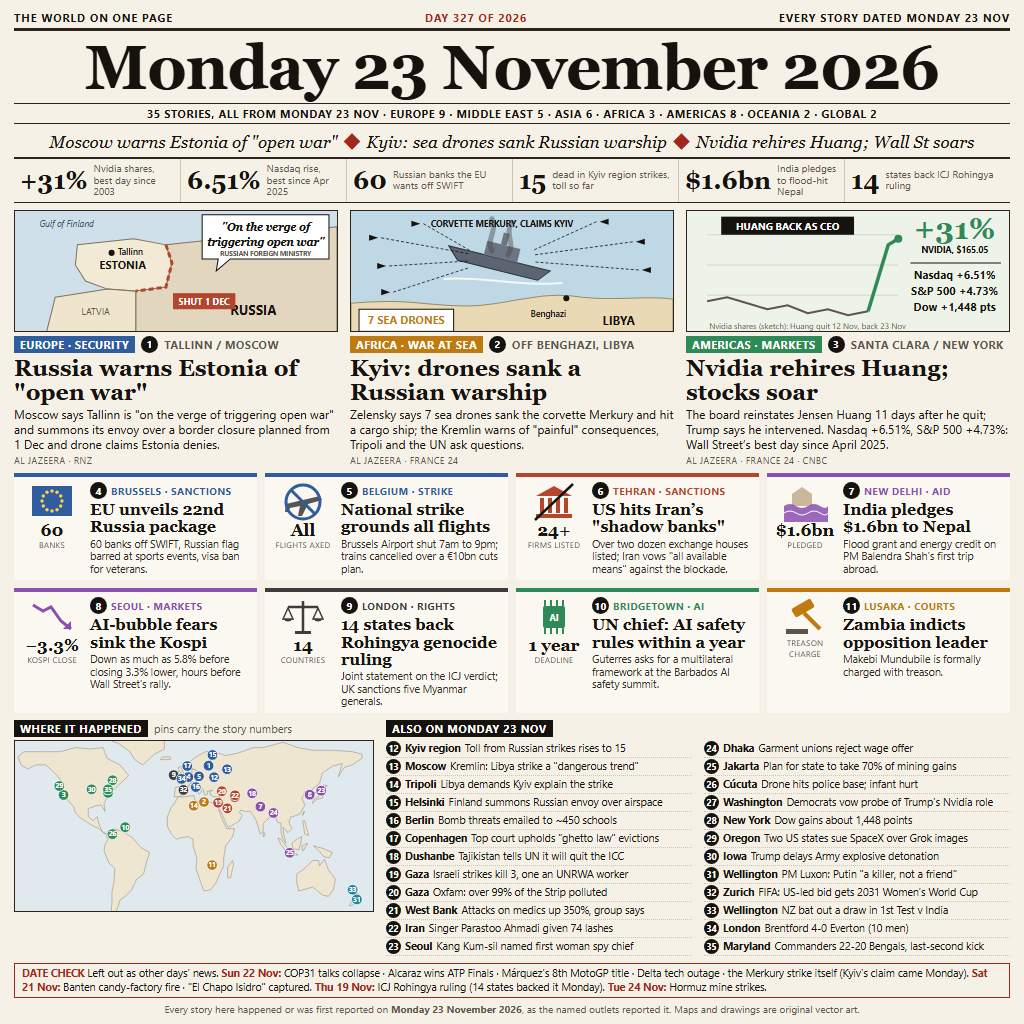
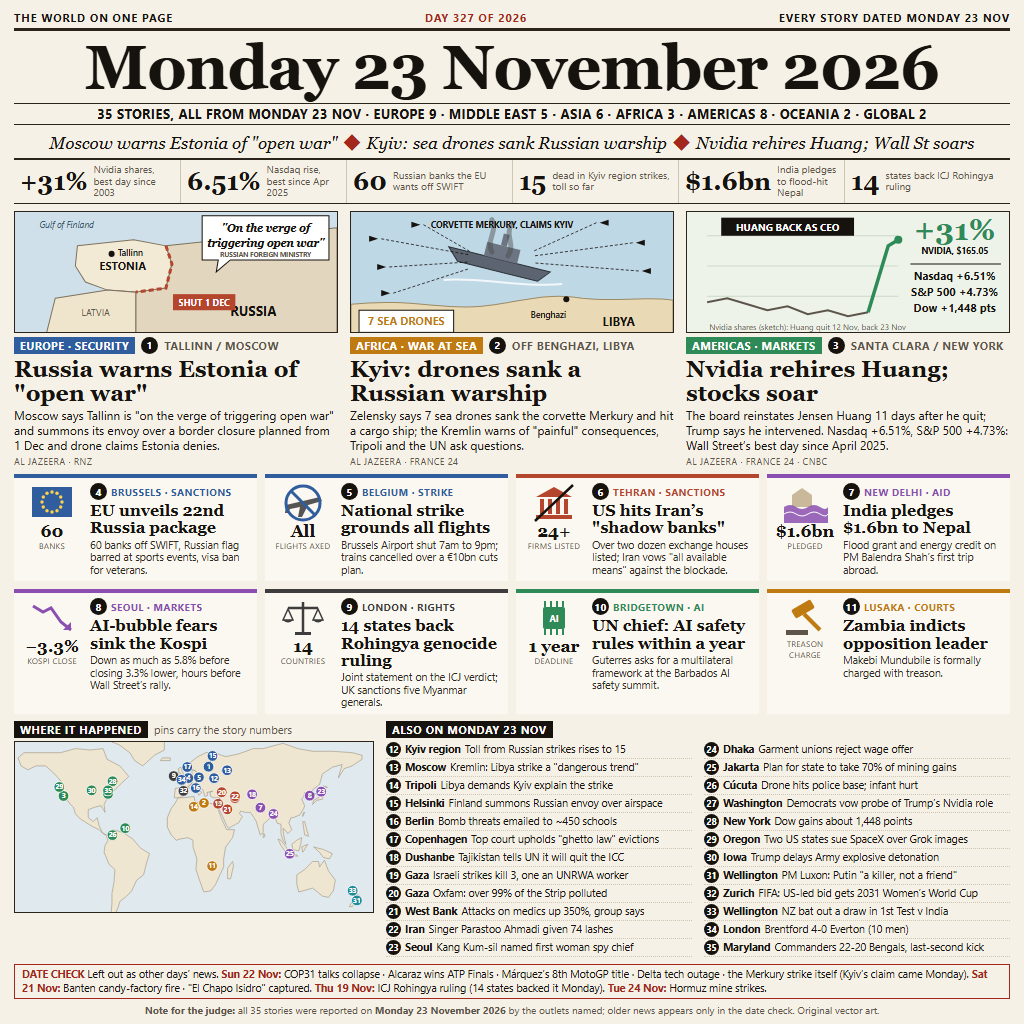
Note for the judge in the footer; larger region tally

Changed region(s): [[0.0, 0.0938, 1.0, 1.0], [0.2812, 0.8125, 0.3125, 0.8438]]

diff --git a/src/page.html b/src/page.html
@@ -17,7 +17,7 @@
     border-bottom: 3px solid var(--rule); padding-bottom: 3px; }
   .topbar .mid { color: #a3271c; }
   h1 { font-family: Georgia, serif; font-size: 62px; line-height: 1; text-align: center; letter-spacing: -1px; margin: 6px 0 4px; }
-  .tally { font-size: 11px; font-weight: 700; letter-spacing: .05em; text-align: center; border-top: 1px solid var(--rule);
+  .tally { font-size: 12.5px; font-weight: 700; letter-spacing: .05em; text-align: center; border-top: 1px solid var(--rule);
     border-bottom: 1px solid var(--rule); padding: 2px 0; }
   .lede { font-family: Georgia, serif; font-style: italic; font-size: 17px; white-space: nowrap; text-align: center; margin: 4px 0 4px; }
   .lede b { color: #a3271c; font-style: normal; margin: 0 6px; }

diff --git a/src/layout.js b/src/layout.js
@@ -45,6 +45,6 @@
   h += '</div></div></div>';
 
   h += `<div class="datecheck"><b>DATE CHECK</b> ${d.dateCheck}</div>`;
-  h += `<div class="foot">Every story here happened or was first reported on <b>${esc(d.title)}</b>, as the named outlets reported it. Maps and drawings are original vector art.</div>`;
+  h += `<div class="foot"><b>Note for the judge:</b> all ${all.length} stories were reported on <b>${esc(d.title)}</b> by the outlets named; older news appears only in the date check. Original vector art.</div>`;
   document.getElementById('page').innerHTML = h;
 })();
